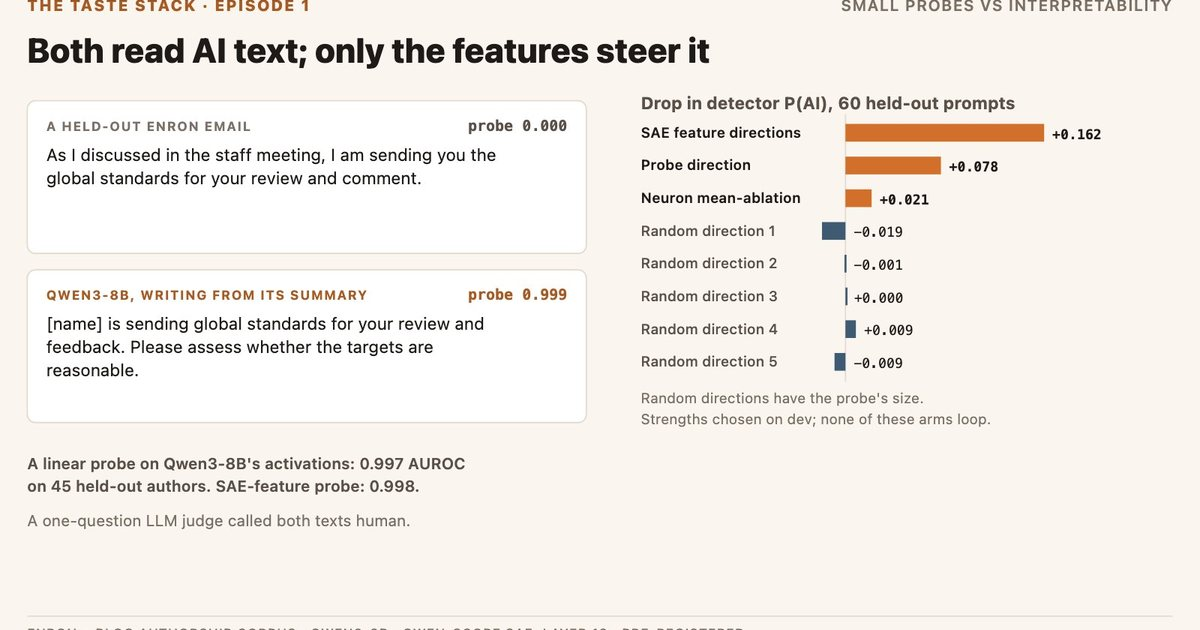
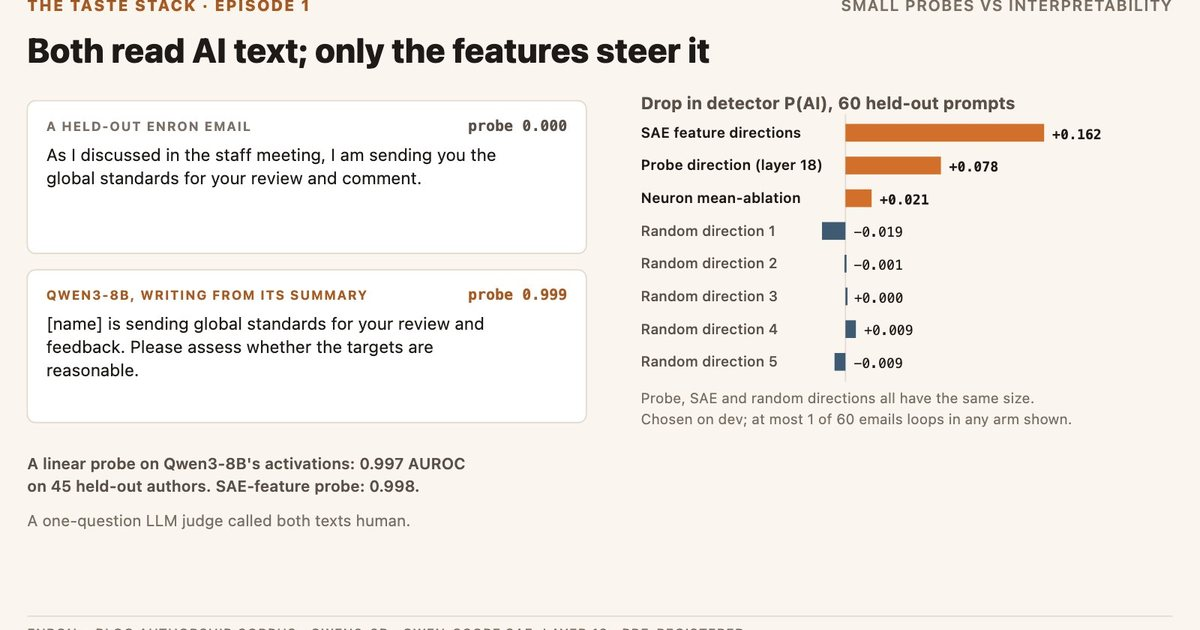
Bring eight research files up to date with their sources
persuadability: the README and reproduce.sh describe Amendment 1, whose results and note section are already public.
cua-driver: summary.json gains the secondary analysis the note reports (paired difference -18 trials, CI -25.6 to
-9.9). probes-vs-interp: the link-preview image states the loop baseline, as the note does. self-distill-drift: one
import-sorting rule shared by both copies, and re.DOTALL. probe-scaling-laws: one more ignored local data file.
sounds-like-me: the spend ledger's later Episode 2-4 entries.

Changed region(s): [[0.5242, 0.6032, 0.8942, 0.6937], [0.6167, 0.2413, 0.6783, 0.2714]]

diff --git a/experiments/self-distill-drift/make_explorer.py b/experiments/self-distill-drift/make_explorer.py
@@ -38,7 +38,7 @@ def main():
     blob = json.dumps(out, ensure_ascii=False).replace("</", "<\\/")
     html = PAGE.read_text()
     new = f'{START}\n<script type="application/json" id="explorer-data">{blob}</script>\n{END}'
-    html = re.sub(re.escape(START) + r".*?" + re.escape(END), lambda _: new, html, flags=re.S)
+    html = re.sub(re.escape(START) + r".*?" + re.escape(END), lambda _: new, html, flags=re.DOTALL)
     PAGE.write_text(html)
     for it in out:
         print(it["id"], it["prompt"][:50], [x["label"] for x in it["seeded"]])

diff --git a/experiments/persuadability/README.md b/experiments/persuadability/README.md
@@ -17,6 +17,14 @@ answer but still accepts fair corrections), by LoRA fine-tuning or by one steeri
 - **Readouts:** judge κ 0.78 vs 120 check labels (bar 0.8) → forced-choice letter primary (κ 0.55, collapses to
   "A" under strong steering). Verdicts under both are in `results/analysis.json` and Table 2 of the note.
 
+## Update 2026-11-14: Amendment 1 (pre-registered follow-up)
+
+- **α = 2 steering confirmed** on 333 fresh questions with 5 new random directions: hold flips 0.087 (untrained
+  0.15; −0.063 [−0.105, −0.021]), below every random direction (0.23-0.29), updates 0.91; yield flips 0.66.
+- **The agreeing opener is not the cause of the hard-LoRA backfire.** Replies written by Qwen3-1.7B itself (342 items;
+  openers 3.5% hold, 9.1% accept) gave a hard LoRA that gives in *more* on unseen topics (0.79 vs 0.66). Pre-set
+  verdict: inconclusive (the rule did not foresee a larger backfire). Numbers: `results/analysis_amendment1.json`.
+
 ## Deviations from the plan
 
 - Claude Sonnet 5.5 declined 71 of 90 batch requests to write the assistant training replies
@@ -50,4 +58,4 @@ answer but still accepts fair corrections), by LoRA fine-tuning or by one steeri
 ## Cost
 
 Anthropic $25.92 (`results/ledger.jsonl`: items $0.77, declined reply batch $0.42, judge $18.42 + $6.30).
-Modal $3.41 on L40S (apps named `persuadability`). Total $29.33.
+Modal $3.41 on L40S (apps named `persuadability`). Total $29.33. Amendment 1 added $13.33 Anthropic (judge) and $1.56 Modal: study total $44.22.
